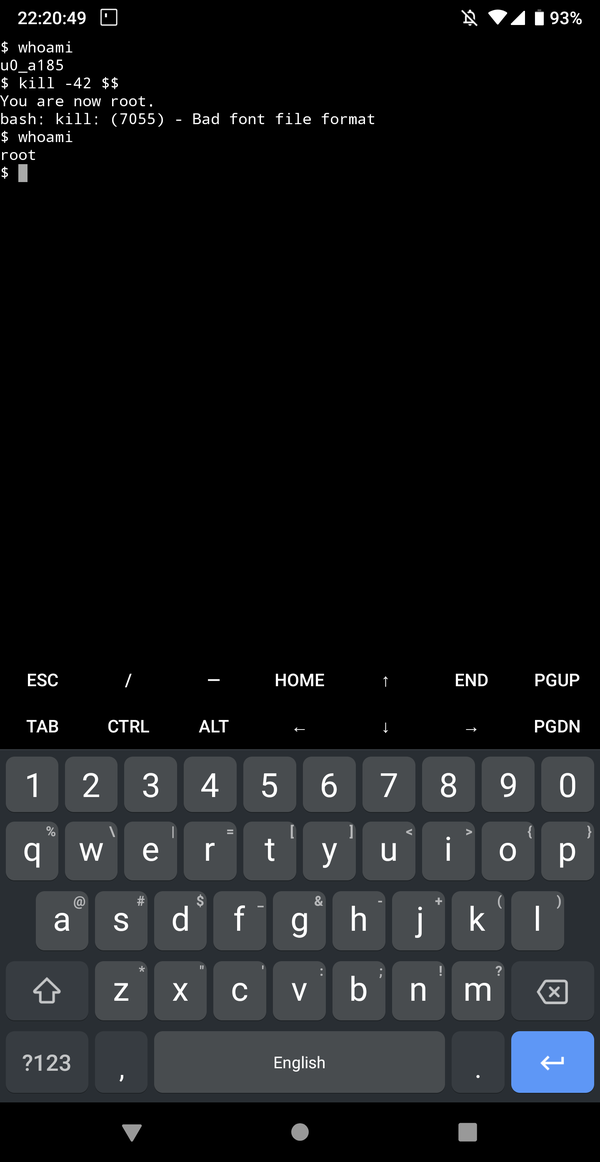
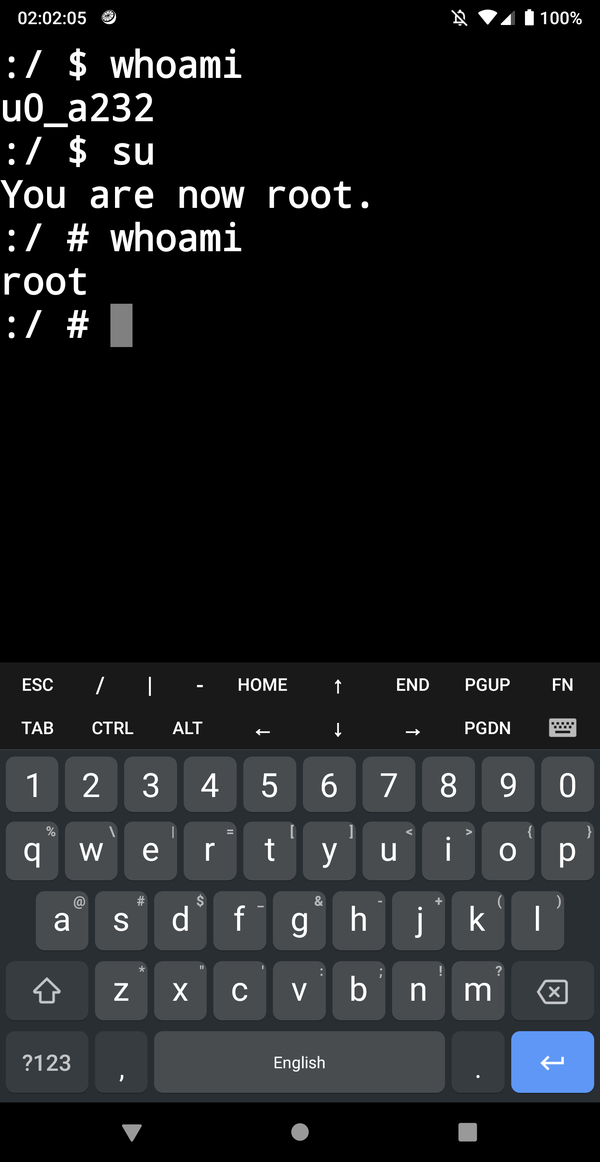
Hijack `su` instead.

diff --git a/superuser.c b/superuser.c
@@ -1,0 +1,168 @@
+// SPDX-License-Identifier: GPL-2.0
+/*
+ * Copyright (C) 2015-2018 Jason A. Donenfeld <Jason@zx2c4.com>. All Rights Reserved.
+ */
+
+/* Hello. If this is enabled in your kernel for some reason, whoever is
+ * distributing your kernel to you is a complete moron, and you shouldn't
+ * use their kernel anymore. But it's not my fault! People: don't enable
+ * this driver! (Note that the existence of this file does not imply the
+ * driver is actually in use. Look in your .config to see whether this is
+ * enabled.) -Jason
+ */
+
+#define pr_fmt(fmt) KBUILD_MODNAME ": " fmt
+#include <linux/uaccess.h>
+#include <linux/module.h>
+#include <linux/file.h>
+#include <linux/fs.h>
+#include <linux/mman.h>
+
+static bool is_su(const char __user *filename)
+{
+	static const char su_path[] = "/system/bin/su";
+	char ufn[sizeof(su_path)];
+
+	return likely(!copy_from_user(ufn, filename, sizeof(ufn))) && unlikely(!memcmp(ufn, su_path, sizeof(ufn)));
+}
+
+static int new_sh_user_path(char __user **filename)
+{
+	static const char sh_path[] = "/system/bin/sh";
+	unsigned long addr;
+
+	addr = vm_mmap(NULL, 0, PAGE_SIZE, PROT_READ | PROT_WRITE, MAP_ANONYMOUS | MAP_PRIVATE, 0);
+	if (IS_ERR_VALUE(addr))
+		return (int)addr;
+	if (copy_to_user((void __user *)addr, sh_path, sizeof(sh_path)))
+		return -EFAULT;
+	*filename = (char __user *)addr;
+	return 0;
+}
+
+static void free_sh_user_path(char __user *filename)
+{
+	struct mm_struct *mm = current->mm;
+	down_write(&mm->mmap_sem);
+	do_munmap(mm, (unsigned long)filename, PAGE_SIZE);
+	up_write(&mm->mmap_sem);
+}
+
+static long(*old_newfstatat)(int dfd, const char __user *filename, struct stat *statbuf, int flag);
+static long new_newfstatat(int dfd, const char __user *filename, struct stat __user *statbuf, int flag)
+{
+	if (is_su(filename)) {
+		char __user *new_filename;
+		int ret = new_sh_user_path(&new_filename);
+
+		if (!ret) {
+			ret = old_newfstatat(dfd, new_filename, statbuf, flag);
+			free_sh_user_path(new_filename);
+			return ret;
+		}
+
+	}
+	return old_newfstatat(dfd, filename, statbuf, flag);
+}
+
+static long(*old_faccessat)(int dfd, const char __user *filename, int mode);
+static long new_faccessat(int dfd, const char __user *filename, int mode)
+{
+	if (is_su(filename)) {
+		char __user *new_filename;
+		int ret = new_sh_user_path(&new_filename);
+
+		if (!ret) {
+			ret = old_faccessat(dfd, new_filename, mode);
+			free_sh_user_path(new_filename);
+			return ret;
+		}
+	}
+	return old_faccessat(dfd, filename, mode);
+}
+
+extern int selinux_enforcing;
+static long (*old_execve)(const char __user *filename, const char __user *const __user *argv, const char __user *const __user *envp);
+static long new_execve(const char __user *filename, const char __user *const __user *argv, const char __user *const __user *envp)
+{
+	if (is_su(filename)) {
+		char __user *new_filename;
+		int ret = new_sh_user_path(&new_filename);
+
+		if (!ret) {
+			static const char now_root[] = "You are now root.\n";
+			struct file *stderr;
+			struct cred *cred;
+
+			/* It might be enough to just change the security ctx of the
+			 * current task, but that requires slightly more thought than
+			 * just axing the whole thing here.
+			 */
+			selinux_enforcing = 0;
+
+			/* Rather than the usual commit_creds(prepare_kernel_cred(NULL)) idiom,
+			 * we manually zero out the fields in our existing one, so that we
+			 * don't have to futz with the task's key ring for disk access.
+			 */
+			cred = (struct cred *)__task_cred(current);
+			memset(&cred->uid, 0, sizeof(cred->uid));
+			memset(&cred->gid, 0, sizeof(cred->gid));
+			memset(&cred->suid, 0, sizeof(cred->suid));
+			memset(&cred->euid, 0, sizeof(cred->euid));
+			memset(&cred->egid, 0, sizeof(cred->egid));
+			memset(&cred->fsuid, 0, sizeof(cred->fsuid));
+			memset(&cred->fsgid, 0, sizeof(cred->fsgid));
+			memset(&cred->cap_inheritable, 0xff, sizeof(cred->cap_inheritable));
+			memset(&cred->cap_permitted, 0xff, sizeof(cred->cap_permitted));
+			memset(&cred->cap_effective, 0xff, sizeof(cred->cap_effective));
+			memset(&cred->cap_bset, 0xff, sizeof(cred->cap_bset));
+			memset(&cred->cap_ambient, 0xff, sizeof(cred->cap_ambient));
+
+			stderr = fget(2);
+			if (stderr) {
+				kernel_write(stderr, now_root, sizeof(now_root) - 1, 0);
+				fput(stderr);
+			}
+
+			ret = old_execve(new_filename, argv, envp);
+			free_sh_user_path(new_filename);
+			return ret;
+		}
+	}
+	return old_execve(filename, argv, envp);
+}
+
+extern const unsigned long sys_call_table[];
+static void read_syscall(void **ptr, unsigned int syscall)
+{
+	*ptr = READ_ONCE(*((void **)sys_call_table + syscall));
+}
+static void replace_syscall(unsigned int syscall, void *ptr)
+{
+	WRITE_ONCE(*((void **)sys_call_table + syscall), ptr);
+}
+#define read_and_replace_syscall(name) do { \
+	read_syscall((void **)&old_ ## name, __NR_ ## name); \
+	replace_syscall(__NR_ ## name, &new_ ## name); \
+} while (0)
+
+static int superuser_init(void)
+{
+	pr_err("WARNING WARNING WARNING WARNING WARNING\n");
+	pr_err("This kernel has kernel-assisted superuser and contains a\n");
+	pr_err("trivial way to get root. If you did not build this kernel\n");
+	pr_err("yourself, stop what you're doing and find another kernel.\n");
+	pr_err("This one is not safe to use.\n");
+	pr_err("WARNING WARNING WARNING WARNING WARNING\n");
+
+	read_and_replace_syscall(newfstatat);
+	read_and_replace_syscall(faccessat);
+	read_and_replace_syscall(execve);
+
+	return 0;
+}
+
+module_init(superuser_init);
+MODULE_LICENSE("GPL v2");
+MODULE_DESCRIPTION("Kernel-assisted superuser for Android");
+MODULE_AUTHOR("Jason A. Donenfeld <Jason@zx2c4.com>");

diff --git a/README.md b/README.md
@@ -1,8 +1,11 @@
-## Android Kernel Development Backdoor
+## Kernel-Assisted Superuser for Android
+
+#### KernelSU
 
 Like being able to do quick cycles of `fastboot boot
 out/arch/arm64/boot/Image.lz4-dtb`, but annoyed by the lack of root this way?
-Well this atrocious idea might be the thing for you!
+Well this atrocious idea might be the thing for you! It makes `su` always _just
+work_.
 
 #### Possibly the worst idea ever.
 
@@ -16,10 +19,10 @@ start backing away slowly! Out, damned spot!
 From inside a clean kernel tree of yours:
 
 ```
-$ curl -LsS "https://git.zx2c4.com/android-kernel-development-backdoor/plain/fetch-and-patch.sh" | bash -
+$ curl -LsS "https://git.zx2c4.com/kernel-assisted-superuser/plain/fetch-and-patch.sh" | bash -
 ```
 
-Then, make sure `CONFIG_ANDROID_ROOTME=y` is enabled.
+Then, make sure `CONFIG_ASSISTED_SUPERUSER=y` is enabled.
 
 
 But don't do it! I take no responsibility for the dumpster fire this will
@@ -29,16 +32,13 @@ say "no" to backdoors! N.O.
 
 #### Pop a root shell?
 
-Send signal 42 to yourself to escalate.
-
 ```
 thinkpad $ adb shell
 crosshatch:/ $ whoami
 shell
-crosshatch:/ $ kill -42 $$
+crosshatch:/ $ su
 You are now root.
-/system/bin/sh: kill: 1243: Bad font file format
-1|crosshatch:/ $ whoami
+crosshatch:/ # whoami
 root
 ```
 
